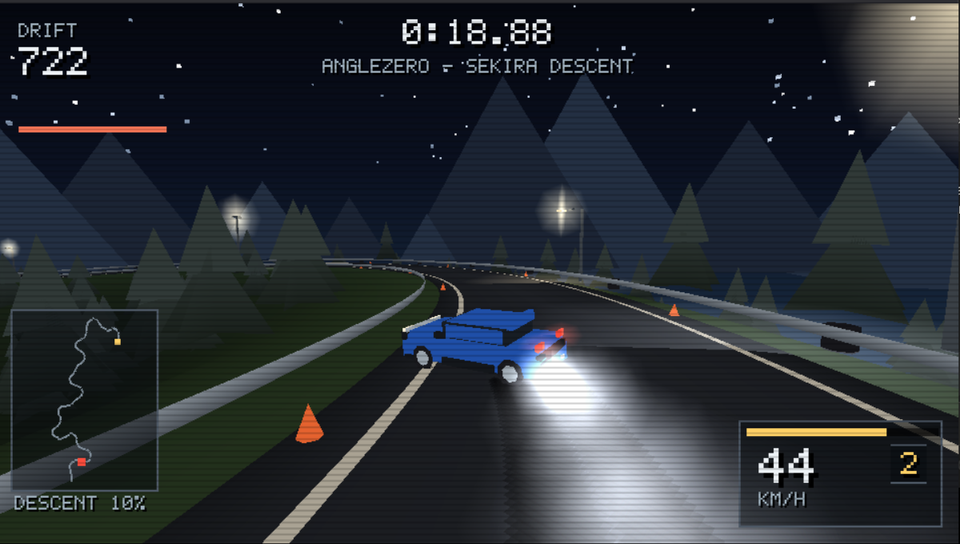
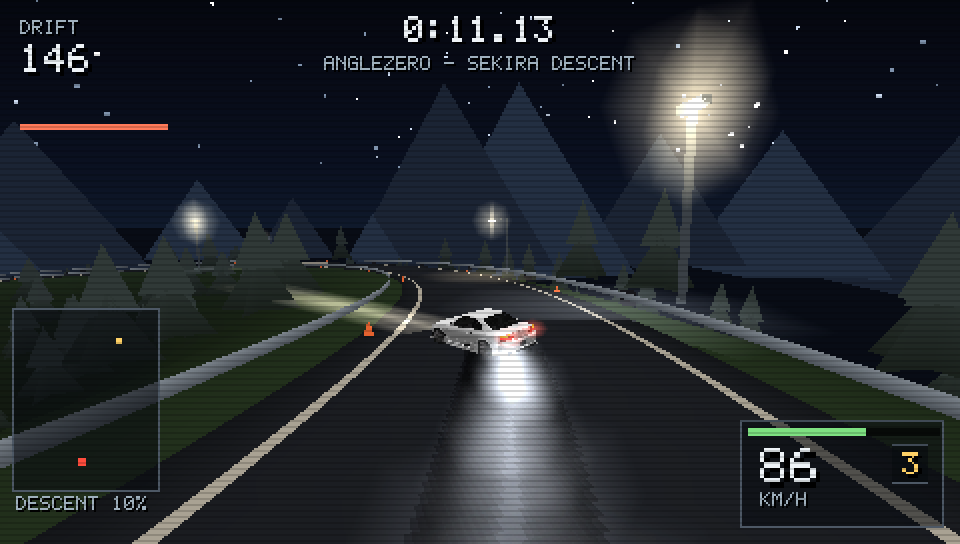
Release 0.2.0, with a screenshot that drifts the right way
Version to 0.2.0 — the pause menu, the front-view camera and the new results
prompts are the first thing worth a release since 0.1.0.

The README screenshot is the S15 now, and it is a real capture rather than a
posed one: the input script that produces it was searched for offline, in the
host simulation, and only then replayed through the harness. The first version
of it was wrong in a way that is easy to miss and hard to unsee — the car was
rotated *away* from the corner, tail to the inside, which is a spin and not a
drift. The search now requires the car's rotation and the road's bend to have
the same sign at the captured frame, which is the difference between a car
going through the bend sideways and a car leaving it backwards.

Also fixes the install section, which promised the archive held one file. It
has held the cars as well since they became separate assets.

`tests/zz_drift_scratch.rs` was a scratch file of mine that 37d5326 swept into
git by accident. Removed.

diff --git a/README.md b/README.md
@@ -8,20 +8,24 @@ Sekira Pass after dark. Sideways the whole way down.
 
 <p align="center">
   <img src="docs/screenshot.png" width="880"
-       alt="Holding a slide through a right-hander on Sekira Pass">
+       alt="The S15 sideways through a left-hander on Sekira Pass at night">
 </p>
 
 <br>
 
 ## Install
 
-Download `AngleZero.0.1.0.zip` from [Releases](https://github.com/ItsNoHax/AngleZero/releases) and
-unzip it at the root of the memory stick. That is the whole installation — the archive holds one
-file, already in the right place:
+Download `AngleZero.0.2.0.zip` from [Releases](https://github.com/ItsNoHax/AngleZero/releases) and
+unzip it at the root of the memory stick. That is the whole installation — everything in the
+archive is already in the place it belongs:
 
 ```
 PSP/GAME/AngleZero/EBOOT.PBP
+PSP/GAME/AngleZero/CARS/*.azcar
 ```
+
+The cars are separate files rather than being built into the EBOOT, so adding one later is copying
+a file into `CARS/` — no rebuild, and the title screen offers it with L/R.
 
 Then it appears under Game → Memory Stick.
 
